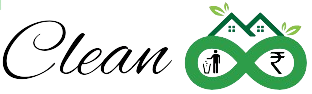
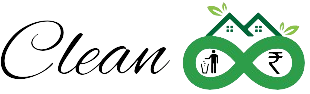
Splash screen +

diff --git a/client/src/components/Layout.jsx b/client/src/components/Layout.jsx
@@ -18,7 +18,6 @@ import NFCCard from './NFC-Card'
 import {
   dashboard_data,
   dashboard_credits,
-  auth_districts,
   auth_wards,
   dashboard_titles,
   awareness_video_link,
@@ -26,9 +25,16 @@ import {
   progress_users,
   progress_BarStyles,
 } from '../data/config'
+import SplashScreen from './Splash'
+import { useEffect, useState } from 'react'
 
 function LayoutContent() {
+  const [loading, setLoading] = useState(true)
   const location = useLocation()
+  useEffect(() => {
+    const timer = setTimeout(() => setLoading(false), 10000)
+    return () => clearTimeout(timer)
+  }, [])
   return (
     <div
       className={`min-h-screen relative ${
@@ -78,11 +84,14 @@ function LayoutContent() {
           <Route
             path='/'
             element={
-              <AuthComponent
-                districts={auth_districts}
-                states={auth_states}
-                wards={auth_wards}
-              />
+              loading ? (
+                <SplashScreen />
+              ) : (
+                <AuthComponent
+                  states={auth_states}
+                  wards={auth_wards}
+                />
+              )
             }
           />
         </Routes>

diff --git a/client/src/components/AuthComp.jsx b/client/src/components/AuthComp.jsx
@@ -115,8 +115,8 @@ export default function AuthComponent({ states, wards }) {
   }
 
   return (
-    <div className='min-h-screen flex items-center justify-center container bg-black'>
-      <div className='p-8 bg-light-green rounded-xl shadow-lg w-full md:w-1/2 lg:w-1/2'>
+    <div className='min-h-screen flex items-center justify-center container'>
+      <div className='p-8 bg-light-green rounded-xl shadow-lg w-full md:w-1/2 lg:w-4/12'>
         <div className='mb-6 w-full slider-btn border-2 border-medium-green rounded-xl shadow-lg flex overflow-hidden'>
           <button
             type='button'

diff --git a/client/src/components/Splash.jsx b/client/src/components/Splash.jsx
@@ -1,0 +1,9 @@
+export default function SplashScreen() {
+  return (
+    <div className='flex flex-col items-center justify-center bg-light-green min-h-screen'>
+      <div className='w-1/2 lg:w-2/12 flex items-center justify-center aspect-square rounded-full p-6 shadow-xl'>
+        <img src='/1.png' />
+      </div>
+    </div>
+  )
+}

diff --git a/client/src/data/config.js b/client/src/data/config.js
@@ -1,6 +1,5 @@
 export const dashboard_data = [70, 50, 90, 30, 100, 45, 80, 60, 25, 85, 55, 80]
 export const dashboard_credits = 500
-export const auth_districts = ['District 1', 'District 2']
 export const auth_wards = ['Choose Your Ward', 'Ward 1', 'Ward 2']
 export const dashboard_titles = [
   'Knowledge',
